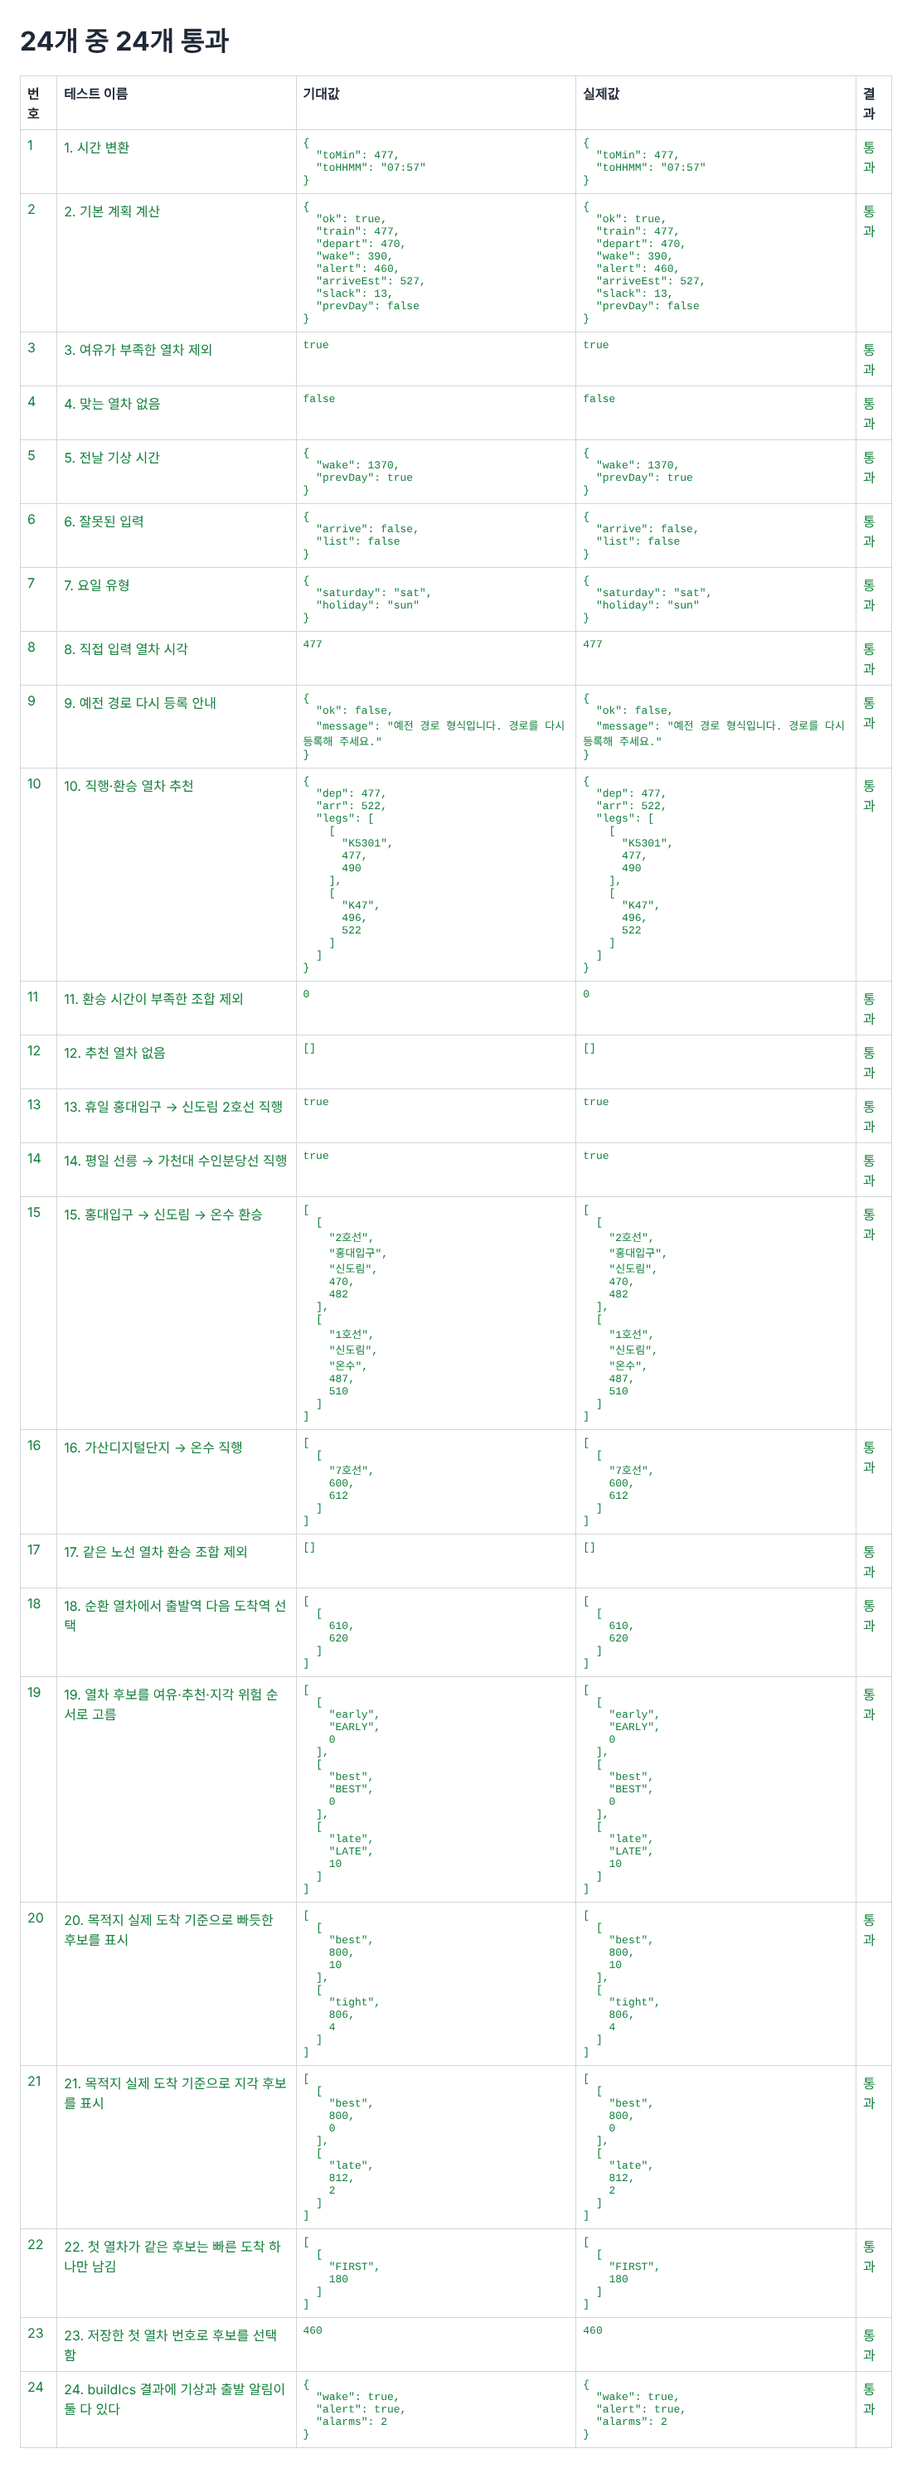
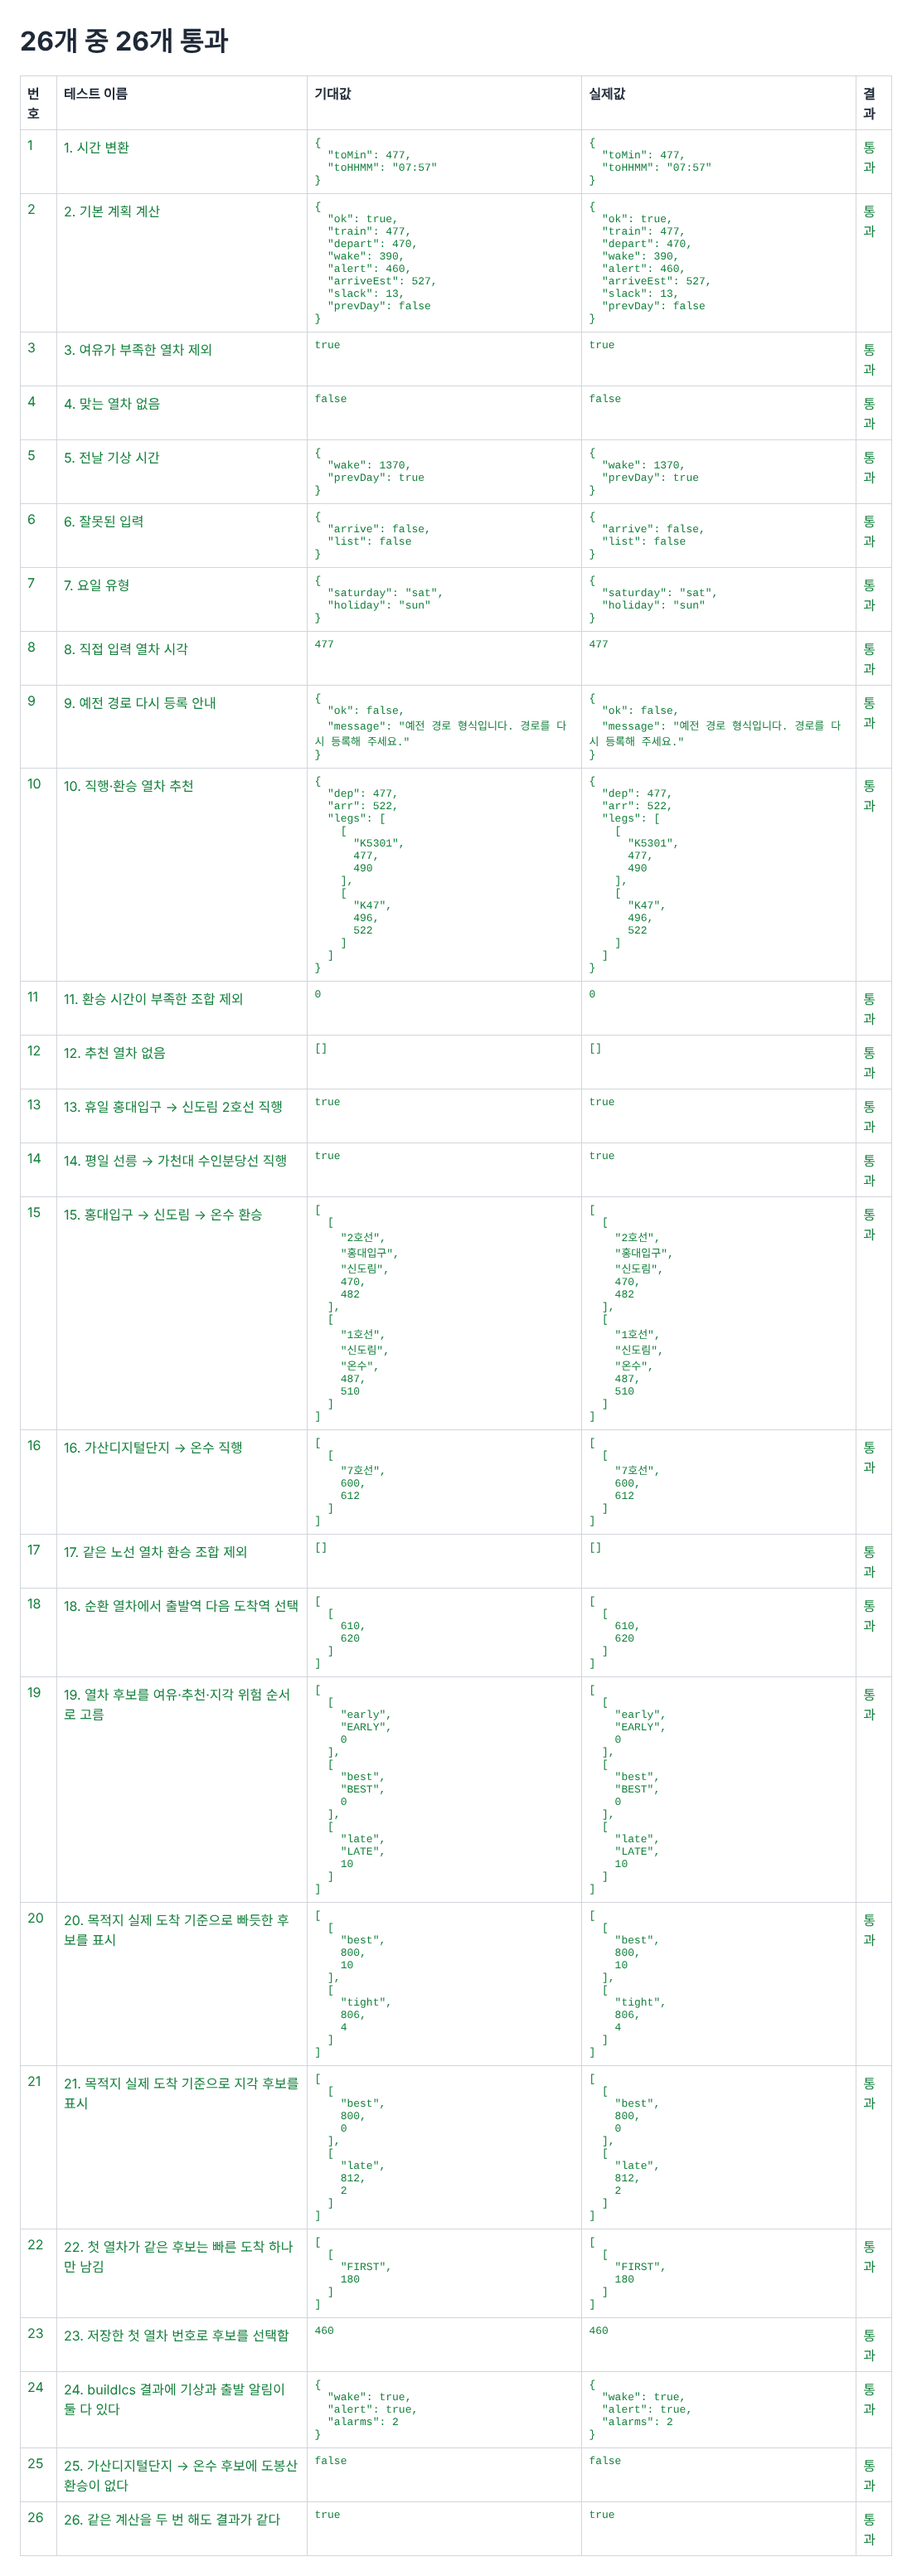
docs: 테스트 29개 반영

diff --git a/README.md b/README.md
@@ -156,9 +156,9 @@ git clone https://github.com/oosohow/nagaltime.git
 
 ## 7. 테스트
 
-`tests.html`을 열면 24개 테스트가 실행되고, 기대값과 실제값을 표로 보여 줍니다.
+`tests.html`을 열면 26개 테스트가 실행되고, 기대값과 실제값을 표로 보여 줍니다.
 
-**결과: 24개 중 24개 통과**
+**결과: 26개 중 26개 통과**
 
 ![테스트 결과](docs/screenshots/05-tests.png)
 
@@ -169,7 +169,8 @@ git clone https://github.com/oosohow/nagaltime.git
 | 입력·요일 | 7 요일 유형 · 8 직접 입력 열차 시각 |
 | 열차 추천 | 10 직행·환승 추천 · 11 환승 시간이 부족한 조합 제외 · 17 같은 노선 환승 제외 · 18 순환 열차 도착역 선택 |
 | 실제 노선 | 13 휴일 홍대입구→신도림 2호선 · 14 평일 선릉→가천대 수인분당선 · 15 홍대입구→신도림→온수 환승 · 16 가산디지털단지→온수 7호선 |
-| 후보 선택 | 19 여유·추천·지각 후보 순서 · 20 빠듯 표시 · 21 지각 표시 · 22 같은 첫 열차 중복 제거 · 23 저장한 열차 선택 |
+| 후보 선택 | 19 여유·추천·지각 후보 순서 · 20 빠듯 표시 · 21 지각 표시 · 22 같은 첫 열차 중복 제거 · 23 저장한 열차 선택 · 25 반대 방향으로 돌아가는 비효율 후보 제외 |
+| 안정성 | 26 같은 계산을 두 번 해도 결과가 같음 (역 목록 재사용 확인) |
 | 캘린더 | 24 .ics에 기상·출발 알림 포함 |
 
 ## 8. 데이터 출처
@@ -208,7 +209,7 @@ git clone https://github.com/oosohow/nagaltime.git
 |---|---|
 | 지침 파일 | `.github/copilot-instructions.md`에 프로젝트 규칙(순수 HTML·CSS·JS, 오류는 `{ok:false,message}`로 반환 등)을 적어 매번 같은 스타일로 생성되게 했습니다. |
 | Chat | 기능 단위로 프롬프트를 나눠 경로 등록 → 계산 → 화면 → 캘린더 순으로 구현했습니다. 작업 내용을 인수인계 문서로 정리해 새 대화에서도 맥락을 이어 갔습니다. |
-| 테스트 | 각 기능을 만들 때 테스트를 함께 요청해 24개 테스트를 작성했습니다. |
+| 테스트 | 각 기능을 만들 때 테스트를 함께 요청해 26개 테스트를 작성했습니다. |
 | 디버깅 | 아래 사례처럼 증상을 설명하고 원인을 찾게 했습니다. |
 | 리팩토링 | 코드 리뷰를 요청해 개선 항목을 고르고 적용했습니다. |
 | 데이터 도구 | API 응답을 trips.js 형식으로 합치는 `merge_kric.js`를 Copilot으로 작성했습니다. |
@@ -221,6 +222,7 @@ git clone https://github.com/oosohow/nagaltime.git
 | 직접 입력한 열차 시각이 새로고침 후 깨짐 | 열차 시각을 분(숫자)으로 저장하고 불러올 때는 "HH:MM"으로 읽음 | 저장 형식을 "HH:MM" 문자열로 통일 |
 | 일정이 있는 날에 캘린더 버튼이 안 보임 | 버튼 표시 조건이 반대로 되어 있었음 | 계획이 하나라도 있으면 버튼을 보이게 수정 |
 | 13:30 도착인데 13:26 도착 열차가 "지각 위험"으로 표시 | 최소 여유를 못 지키는 경우를 모두 "지각"으로 처리 | 도착 시간 안이면 "빠듯", 넘으면 "지각"으로 구분하고 테스트 추가 |
+| 가산디지털단지→온수에서 7호선으로 도봉산까지 갔다가 돌아오는 "지각 148분" 후보가 나옴 | 추천 열차 바로 다음 출발이면 경로가 비효율적이어도 후보로 넣음 | 더 늦게 출발하고 더 일찍 도착하는 경로가 있으면 제외하고 테스트 25 추가 |
 
 ### 리팩토링 전/후
 
@@ -233,6 +235,11 @@ git clone https://github.com/oosohow/nagaltime.git
 
 - 전: 경로 종류가 "시간표 선택 / 직접 입력 / 열차 추천" 세 가지였고, 계산·저장·화면 코드마다 세 갈래 분기가 있었습니다. `data/timetable.js`도 따로 필요했습니다.
 - 후: 열차 추천이 시간표 선택을 대신하므로 해당 방식과 `timetable.js`를 지웠습니다. 분기가 두 갈래로 줄었고, 예전 형식으로 저장된 경로는 "다시 등록해 주세요" 메시지를 보여 줍니다. (테스트 9)
+
+**3. 열차 추천 계산 함수 분리**
+
+- 전: `calcPlan` 함수 **안에** `calcTripPlan` 함수가 중첩되어 있었고, 분을 0~1439로 맞추는 `normalize`가 두 곳에 똑같이 들어 있었습니다. 또 계산할 때마다 역별 열차 목록(역 인덱스)을 처음부터 다시 만들었습니다.
+- 후: `calcTripPlan`을 바깥 함수로 꺼내고 `normalizeMinute` 하나로 합쳤습니다. 역 인덱스는 `getStationIndex`가 한 번만 만들고 `WeakMap`에 저장해 재사용합니다. (테스트 26)
 
 ## 12. 사용 기술
 
